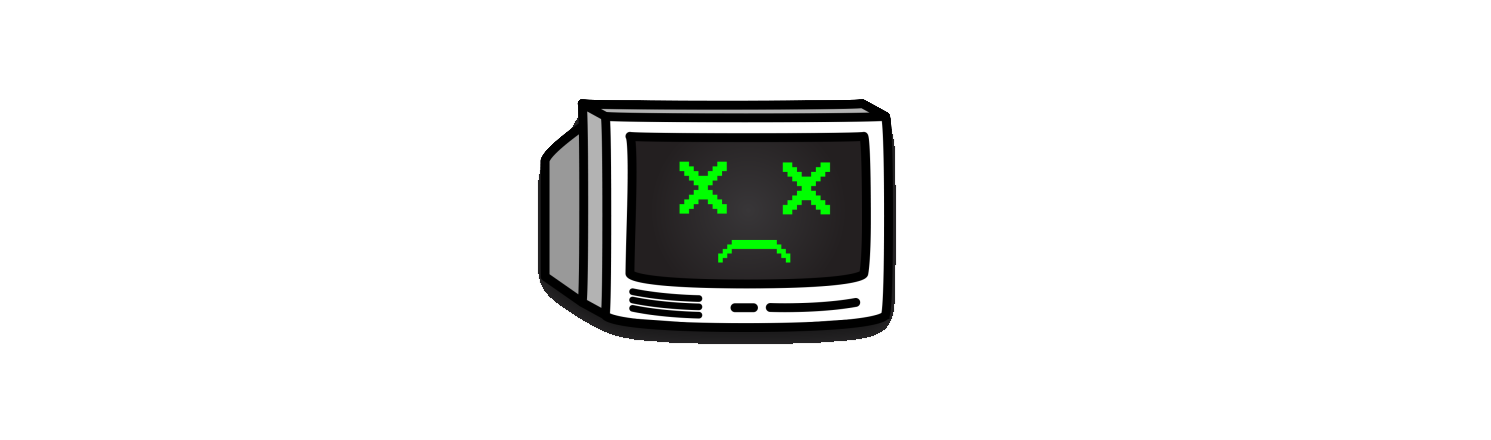
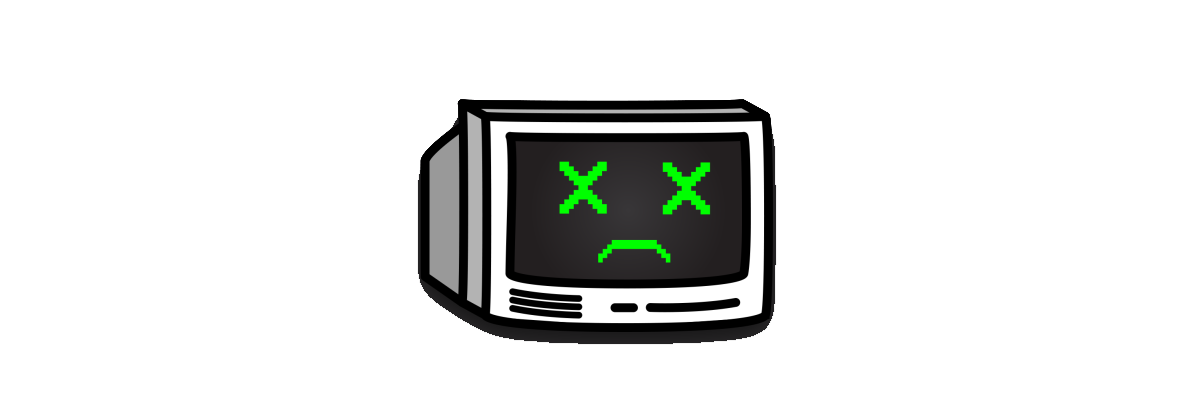
fix cover wreckctf

Changed region(s): [[0.34, 0.2054, 0.6491, 0.8509]]

diff --git a/_posts/2022/2022-10-02-wreckctf_2022.md b/_posts/2022/2022-10-02-wreckctf_2022.md
@@ -3,7 +3,7 @@ title: Writeup WRECKCTF 2022 #Tiêu đề hiện thị trên trang
 author: vietzettt
 date:  2022-10-02 #Ngày tạo
 layout: post
-cover: /src/2022/Wreckctf/img_pages/00_cover.png/ #thêm ảnh bìa cho trang 
+cover: /src/2022/Wreckctf/img_pages/00_cover.webp/ #thêm ảnh bìa cho trang 
 ---
 
 ---
